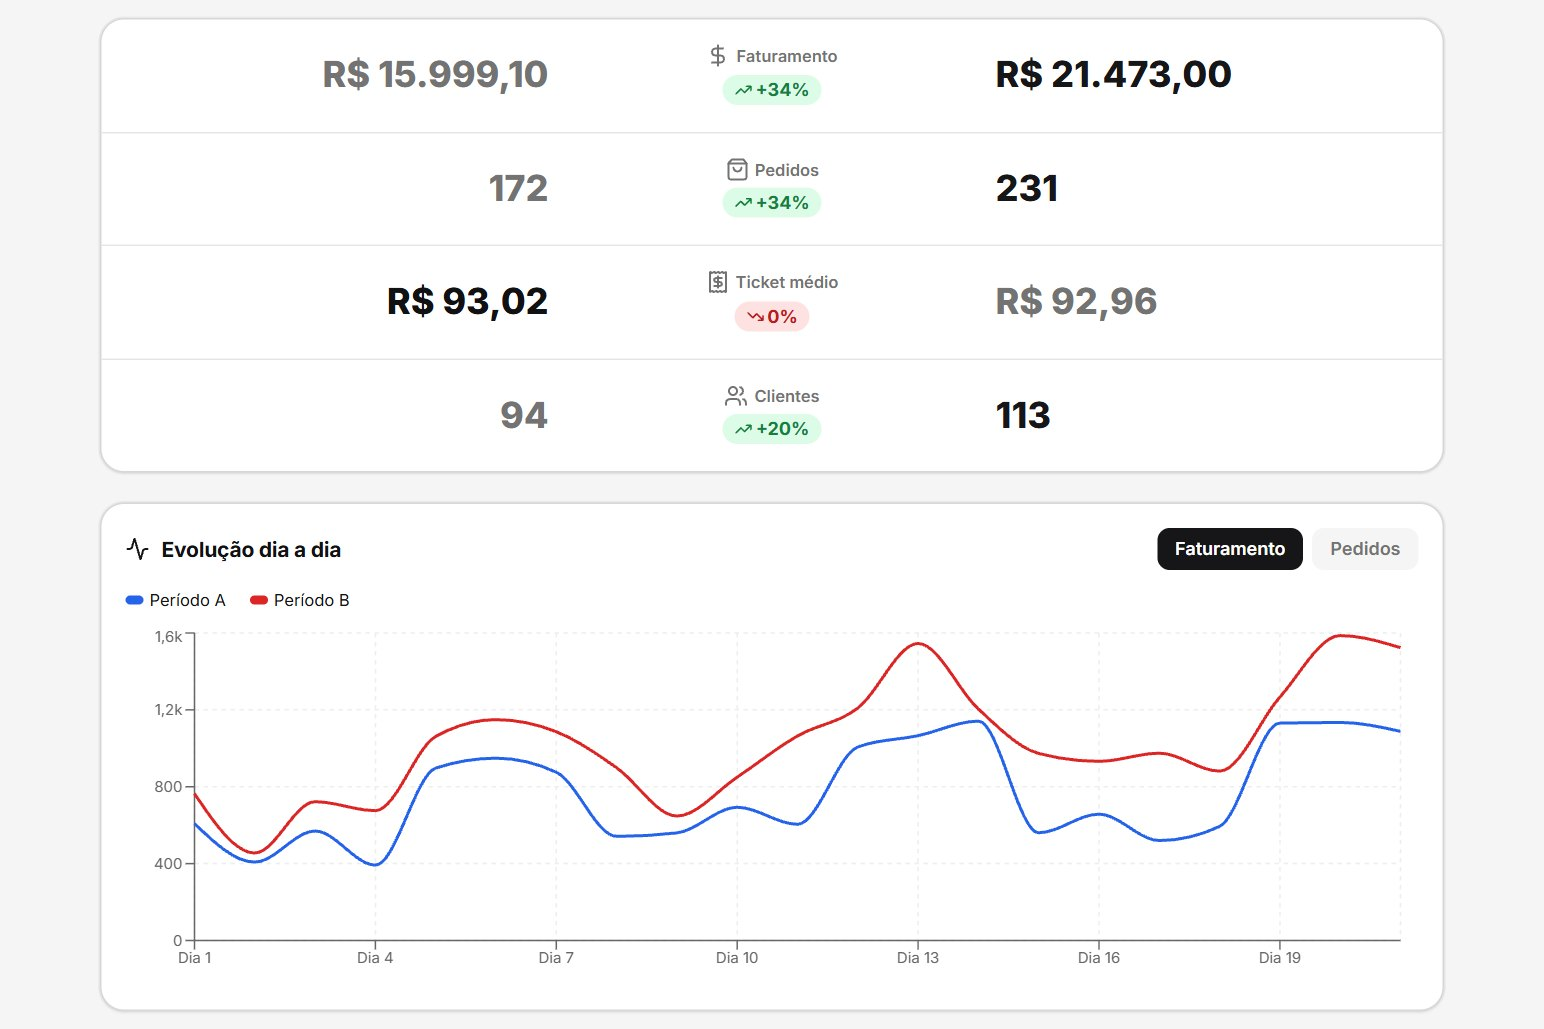
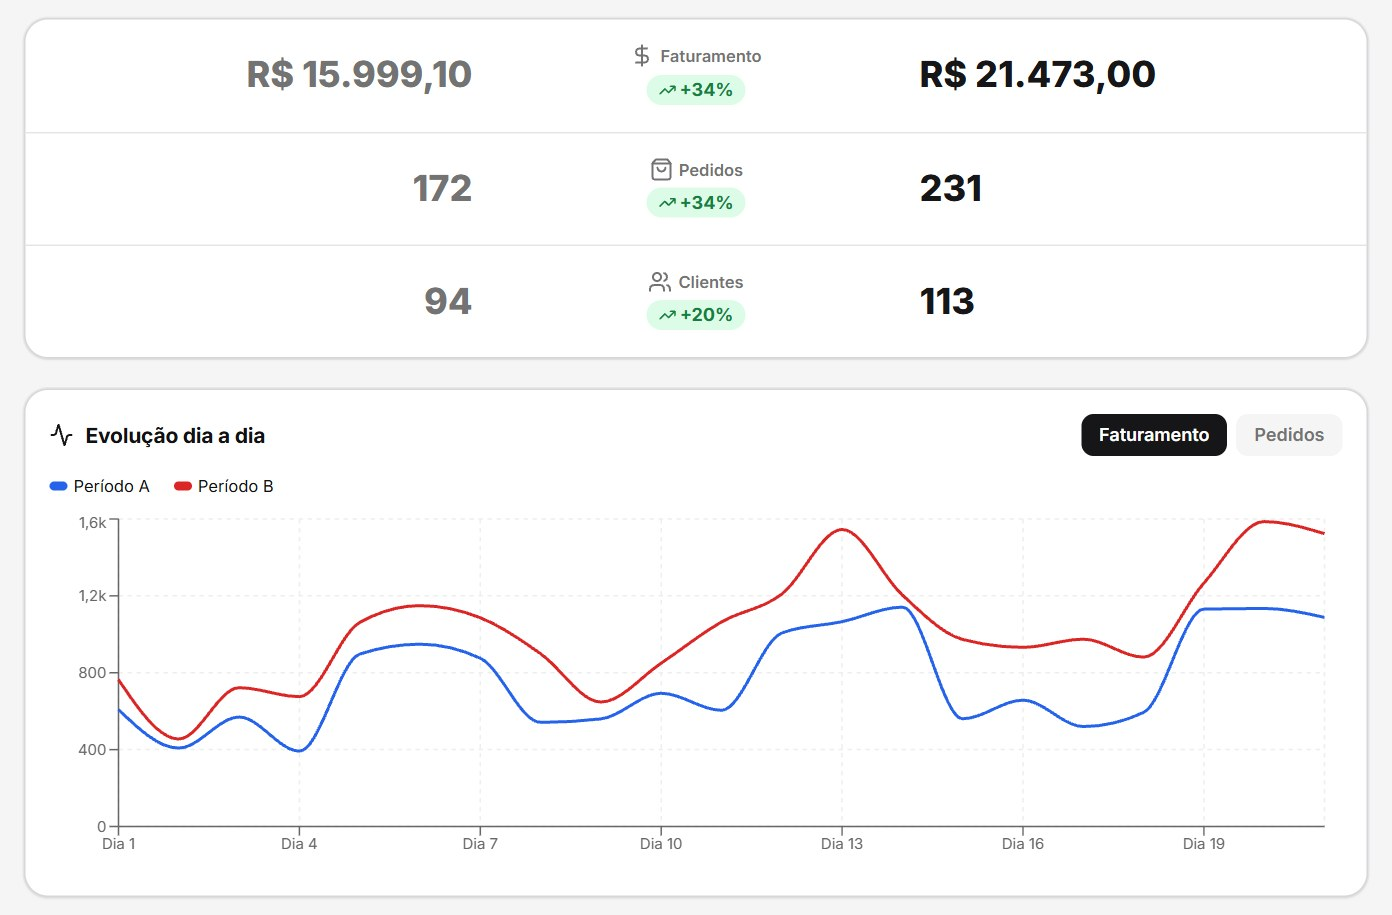
Menu em cápsula com a seção atual acesa em dourado (acompanha a rolagem); lista padrão igual à do painel; abertura só com os indicadores em alta e o gráfico inteiro

diff --git a/assets/site.js b/assets/site.js
@@ -688,3 +688,43 @@ document.getElementById('form-lead')?.addEventListener('submit', async e => {
     paraWhats();
   }
 });
+
+
+/* menu: acende o item da seção que está na tela. Os links são relidos a cada vez porque o
+   conteúdo do painel refaz o menu depois de carregar. */
+(function(){
+  const nav = document.querySelector('header nav');
+  if (!nav) return;
+  const destinoDe = { top: '/', cases: '/cases', delivery: '#delivery', operacao: '#operacao', como: '#como', faq: '#faq' };
+  const secoes = Object.keys(destinoDe).map(id => document.getElementById(id)).filter(Boolean);
+  const alvoDoLink = a => {
+    const h = a.getAttribute('href') || '';
+    return h.replace(/^\/(?=#)/, '');
+  };
+  let ultimo = null;
+  function acender(){
+    let destino;
+    if (!NA_HOME) destino = location.pathname.replace(/\/$/, '') === '/cases' ? '/cases' : null;
+    else {
+      const linha = window.innerHeight * 0.35;
+      let atual = null;
+      secoes.forEach(s => { if (s.getBoundingClientRect().top <= linha) atual = s; });
+      destino = atual ? destinoDe[atual.id] : '/';
+    }
+    const links = [...nav.querySelectorAll('a')];
+    links.forEach(a => a.classList.toggle('on', destino !== null && alvoDoLink(a) === destino));
+    const aceso = links.find(a => a.classList.contains('on'));
+    if (aceso && aceso !== ultimo && nav.scrollWidth > nav.clientWidth) {
+      nav.scrollTo({ left: aceso.offsetLeft - (nav.clientWidth - aceso.offsetWidth) / 2, behavior: 'smooth' });
+    }
+    ultimo = aceso || null;
+  }
+  let pedido = false;
+  window.addEventListener('scroll', () => {
+    if (pedido) return;
+    pedido = true;
+    requestAnimationFrame(() => { pedido = false; acender(); });
+  }, { passive: true });
+  new MutationObserver(acender).observe(nav, { childList: true });
+  acender();
+})();

diff --git a/assets/estilo.css b/assets/estilo.css
@@ -47,8 +47,10 @@
   .logo .word{font-size:20px;font-weight:800;letter-spacing:-.035em;color:#fff}
   /* acento quadrado da marca, no lugar do ponto redondo */
   .logo .word .quad{display:inline-block;width:.2em;height:.2em;background:var(--accent);margin-left:.06em;vertical-align:baseline}
-  nav{display:flex;gap:28px;font-size:14px}
-  nav a{color:#C9C9C2}
+  nav{display:flex;gap:2px;font-size:14px;padding:5px;border:1px solid #26262A;border-radius:999px;background:#141418}
+  nav a{color:#C9C9C2;padding:8px 15px;border-radius:999px;white-space:nowrap;transition:background .2s,color .2s}
+  nav a:hover{color:#fff;background:rgba(255,255,255,.06)}
+  nav a.on{color:var(--accent);background:rgba(201,162,39,.16);font-weight:700}
   .head-cta{display:flex;gap:10px;align-items:center}
   .head-cta .btn{font-size:14px;font-weight:600;padding:10px 18px;border-radius:10px}
 
@@ -203,10 +205,10 @@
   @media (max-width:960px){
     header{flex-wrap:wrap;gap:14px;padding:16px 24px}
     section[id]{scroll-margin-top:160px}
-    nav{order:3;width:100%;flex-wrap:nowrap;justify-content:space-between;gap:10px;
+    nav{order:3;width:100%;flex-wrap:nowrap;justify-content:flex-start;gap:2px;padding:4px;
       font-size:12.5px;overflow-x:auto;scrollbar-width:none;-webkit-overflow-scrolling:touch}
     nav::-webkit-scrollbar{display:none}
-    nav a{white-space:nowrap;padding:6px 0}
+    nav a{padding:7px 12px}
     .wrap{padding-inline:24px}
     .hero{padding:72px 24px 80px}
     .hero h1{font-size:42px}

diff --git a/cases/index.html b/cases/index.html
@@ -38,10 +38,10 @@
   <a class="logo" href="/"><span class="mark">k</span><span class="word">kadosh<i class="quad"></i></span></a>
   <nav>
     <a href="/">Início</a>
-    <a href="/#solucoes">Soluções</a>
     <a href="/#delivery">Delivery</a>
-    <a href="/#como">Como funciona</a>
+    <a href="/#operacao">O sistema</a>
     <a href="/cases">Cases</a>
+    <a href="/#como">Como funciona</a>
     <a href="/#faq">Dúvidas</a>
   </nav>
   <div class="head-cta">

diff --git a/index.html b/index.html
@@ -49,10 +49,10 @@
   <a class="logo" href="#top"><span class="mark">k</span><span class="word">kadosh<i class="quad"></i></span></a>
   <nav>
     <a href="/">Início</a>
-    <a href="#solucoes">Soluções</a>
     <a href="#delivery">Delivery</a>
-    <a href="#como">Como funciona</a>
+    <a href="#operacao">O sistema</a>
     <a href="/cases">Cases</a>
+    <a href="#como">Como funciona</a>
     <a href="#faq">Dúvidas</a>
   </nav>
   <div class="head-cta">
